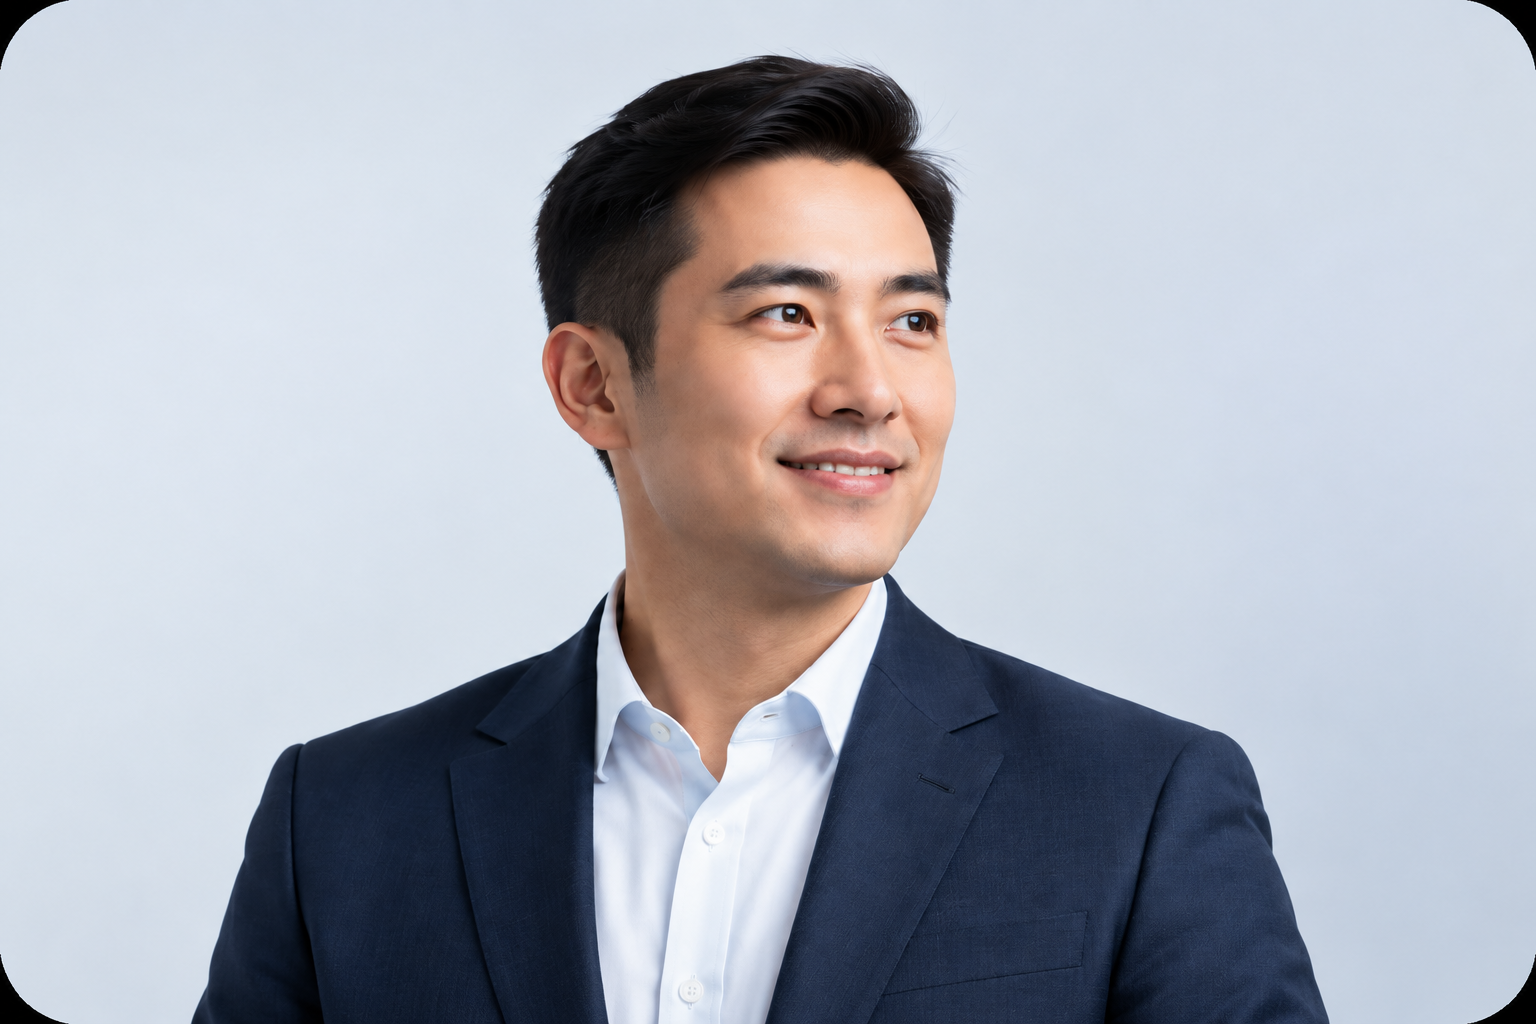
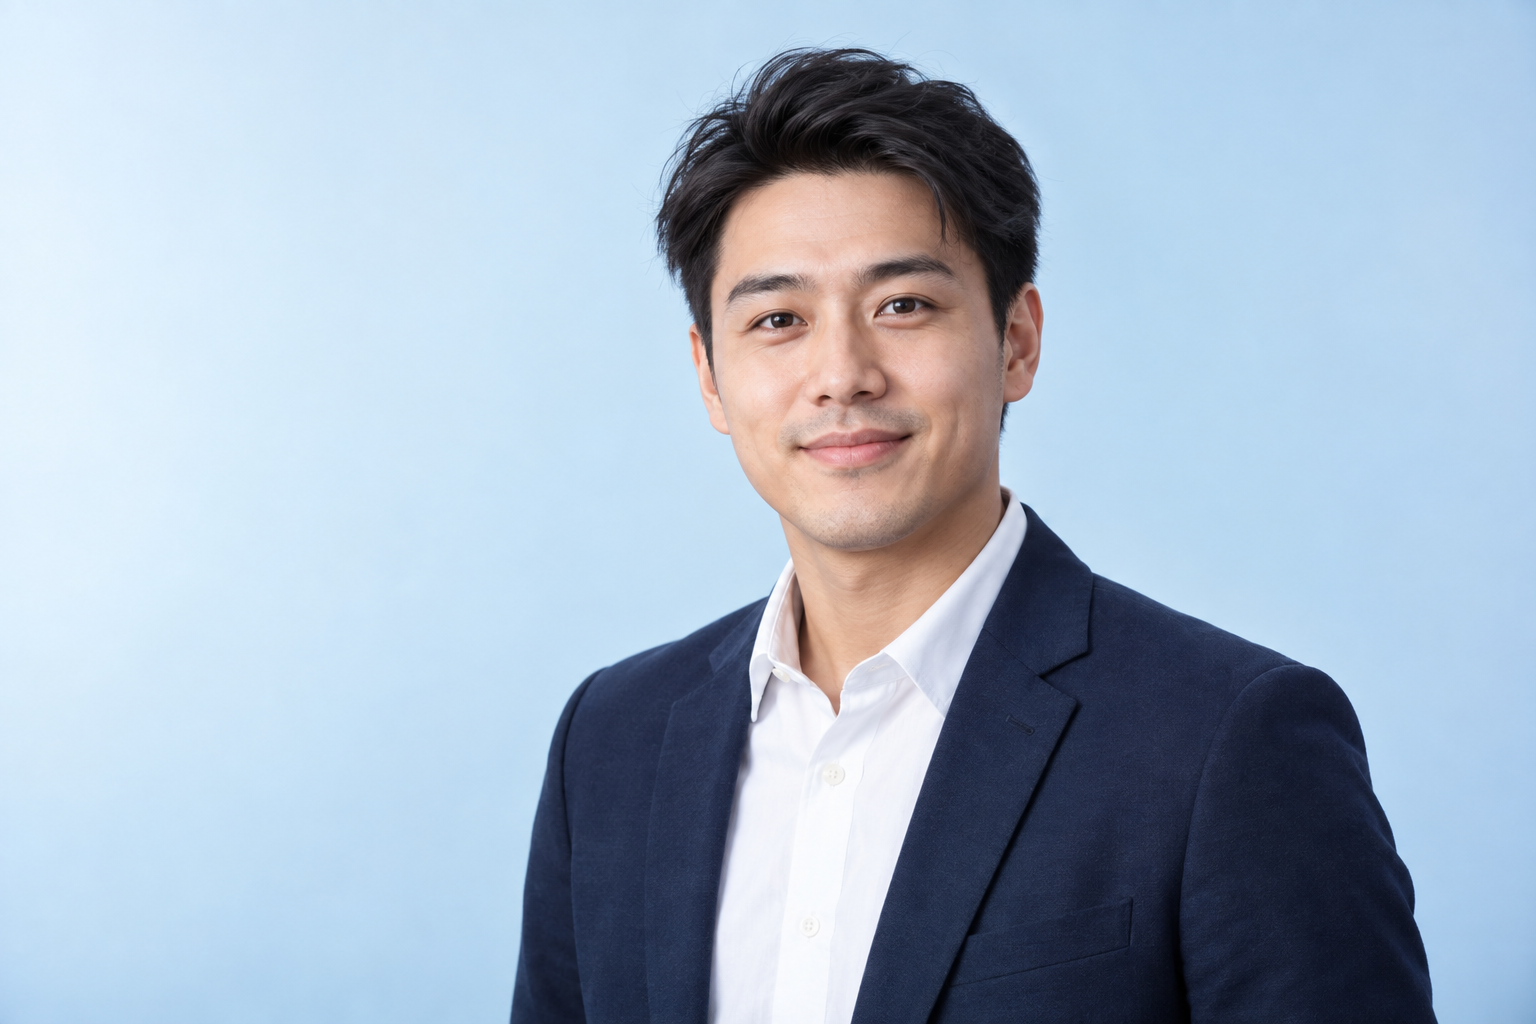
Add rotating customer case studies

diff --git a/index.html b/index.html
@@ -177,6 +177,11 @@ button{font:inherit}
 
 /* Testimonial */
 .testimonial{padding:16px 0 24px}
+.testimonial-carousel{position:relative}
+.testimonial-track{position:relative}
+.testimonial-slide{display:none}
+.testimonial-slide.is-active{display:block;animation:testimonial-in .45s ease both}
+@keyframes testimonial-in{from{opacity:0;transform:translateX(14px)}to{opacity:1;transform:translateX(0)}}
 .testimonial-card{height:112px;border:1px solid #e2ebf7;border-radius:10px;background:linear-gradient(180deg,#fff,#fbfdff);box-shadow:0 8px 22px rgba(35,87,151,.06);display:grid;grid-template-columns:160px 1fr 190px;overflow:hidden;align-items:stretch}
 .portrait-wrap{background:linear-gradient(145deg,#e7eef7,#f8fbfe);display:flex;align-items:end;justify-content:center;overflow:hidden}
 .portrait-wrap img{width:100%;height:100%;object-fit:cover;object-position:center 30%;border-radius:0}
@@ -188,7 +193,17 @@ button{font:inherit}
 .kpis{display:grid;grid-template-columns:1fr 1fr;align-items:center;text-align:center;position:relative}
 .kpis:before{content:"";position:absolute;left:50%;top:28px;bottom:28px;width:1px;background:#dce9f8}
 .kpi b{font-size:30px;color:#0a70fb;display:block;line-height:1}
+.kpi b small{font-size:.55em}
 .kpi span{font-size:12px;color:#506782;display:block;margin-top:6px}
+.testimonial-controls{display:flex;align-items:center;justify-content:space-between;margin:12px 2px 0}
+.testimonial-dots{display:flex;align-items:center;gap:8px}
+.testimonial-dot{width:8px;height:8px;padding:0;border:0;border-radius:50%;background:#c8d8ed;cursor:pointer;transition:width .25s ease,background .25s ease,transform .25s ease}
+.testimonial-dot:hover{background:#80b5f7;transform:scale(1.15)}
+.testimonial-dot[aria-selected="true"]{width:24px;border-radius:8px;background:#0b6ffb}
+.testimonial-arrows{display:flex;gap:8px}
+.testimonial-arrow{width:28px;height:28px;padding:0;border:1px solid #d6e5f7;border-radius:50%;background:#fff;color:#176fe8;cursor:pointer;display:grid;place-items:center;line-height:1;transition:border-color .2s ease,background .2s ease,color .2s ease}
+.testimonial-arrow:hover{border-color:#0b6ffb;background:#eef6ff}
+@media (prefers-reduced-motion:reduce){.testimonial-slide.is-active{animation:none}.testimonial-dot,.testimonial-arrow{transition:none}}
 
 /* CTA */
 .cta{padding:12px 0 26px}
@@ -349,12 +364,51 @@ button{font:inherit}
   </div>
 </section>
 
-<section class="section testimonial" id="about">
+<section class="section testimonial" id="about" aria-label="客户案例">
   <div class="container">
-    <div class="testimonial-card">
-      <div class="portrait-wrap"><img src="assets/testimonial-portrait.png" alt="客户代表"></div>
-      <div class="quote"><p>Rental OS 帮助我们将整体运营效率提升了 60% 以上，从多门店管理到订单履约都变得更加高效、透明。现在我们可以把更多精力放在业务拓展上，过去一年营收实现了 3 倍增长。</p><small><strong>陈先生</strong> 某知名摄影器材租赁品牌&nbsp; 创始人</small></div>
-      <div class="kpis"><div class="kpi"><b>60%+</b><span>运营效率提升</span></div><div class="kpi"><b>3 <small>倍</small></b><span>年营收增长</span></div></div>
+    <div class="testimonial-carousel" data-testimonial-carousel>
+      <div class="testimonial-track" aria-live="polite">
+        <article class="testimonial-slide is-active" data-testimonial-slide id="testimonial-slide-photography" aria-label="摄影器材租赁示例案例">
+          <div class="testimonial-card">
+            <div class="portrait-wrap"><img src="assets/testimonial-portrait.png" alt="摄影器材租赁示例客户陈先生"></div>
+            <div class="quote"><p>Rental OS 帮助我们将整体运营效率提升了 60% 以上，从多门店管理到订单履约都变得更加高效、透明。现在我们可以把更多精力放在业务拓展上。</p><small><strong>陈先生</strong>某知名摄影器材租赁品牌 · 示例客户</small></div>
+            <div class="kpis"><div class="kpi"><b>60%+</b><span>运营效率提升</span></div><div class="kpi"><b>3 <small>倍</small></b><span>年营收增长</span></div></div>
+          </div>
+        </article>
+        <article class="testimonial-slide" data-testimonial-slide id="testimonial-slide-camping" aria-label="露营装备租赁示例案例" hidden>
+          <div class="testimonial-card">
+            <div class="portrait-wrap"><img src="assets/testimonial-camping.png" alt="露营装备租赁示例客户林女士"></div>
+            <div class="quote"><p>从装备上架、预约排期到归还检查，团队终于可以在一个后台协同处理。旺季订单增加时，也不用反复核对表格。</p><small><strong>林女士</strong>某户外装备租赁品牌 · 示例客户</small></div>
+            <div class="kpis"><div class="kpi"><b>45%</b><span>订单处理效率</span></div><div class="kpi"><b>2.1 <small>倍</small></b><span>资产周转提升</span></div></div>
+          </div>
+        </article>
+        <article class="testimonial-slide" data-testimonial-slide id="testimonial-slide-vehicle" aria-label="车辆租赁示例案例" hidden>
+          <div class="testimonial-card">
+            <div class="portrait-wrap"><img src="assets/testimonial-vehicle.png" alt="车辆租赁示例客户周先生"></div>
+            <div class="quote"><p>多门店车辆排期、车辆状态和订单履约统一之后，调度人员能更快找到可用车辆，客户等待时间也明显缩短。</p><small><strong>周先生</strong>某城市汽车租赁企业 · 示例客户</small></div>
+            <div class="kpis"><div class="kpi"><b>50%+</b><span>车队协同效率</span></div><div class="kpi"><b>30%</b><span>空置率下降</span></div></div>
+          </div>
+        </article>
+        <article class="testimonial-slide" data-testimonial-slide id="testimonial-slide-engineering" aria-label="工程设备租赁示例案例" hidden>
+          <div class="testimonial-card">
+            <div class="portrait-wrap"><img src="assets/testimonial-engineering.png" alt="工程设备租赁示例客户王女士"></div>
+            <div class="quote"><p>设备状态、检验日期和交付安排都集中在同一套流程里，现场团队不用来回查表，设备交接也更有依据。</p><small><strong>王女士</strong>某工程设备租赁企业 · 示例客户</small></div>
+            <div class="kpis"><div class="kpi"><b>40%+</b><span>交付效率提升</span></div><div class="kpi"><b>25%</b><span>设备利用率提升</span></div></div>
+          </div>
+        </article>
+      </div>
+      <div class="testimonial-controls">
+        <div class="testimonial-dots" role="tablist" aria-label="选择客户案例">
+          <button class="testimonial-dot" type="button" role="tab" aria-label="摄影器材租赁示例案例" aria-selected="true" aria-controls="testimonial-slide-photography" data-testimonial-to="0"></button>
+          <button class="testimonial-dot" type="button" role="tab" aria-label="露营装备租赁示例案例" aria-selected="false" aria-controls="testimonial-slide-camping" data-testimonial-to="1" tabindex="-1"></button>
+          <button class="testimonial-dot" type="button" role="tab" aria-label="车辆租赁示例案例" aria-selected="false" aria-controls="testimonial-slide-vehicle" data-testimonial-to="2" tabindex="-1"></button>
+          <button class="testimonial-dot" type="button" role="tab" aria-label="工程设备租赁示例案例" aria-selected="false" aria-controls="testimonial-slide-engineering" data-testimonial-to="3" tabindex="-1"></button>
+        </div>
+        <div class="testimonial-arrows">
+          <button class="testimonial-arrow" type="button" aria-label="上一个客户案例" data-testimonial-prev>←</button>
+          <button class="testimonial-arrow" type="button" aria-label="下一个客户案例" data-testimonial-next>→</button>
+        </div>
+      </div>
     </div>
   </div>
 </section>
@@ -372,5 +426,75 @@ button{font:inherit}
     <div class="footer-slogan">让好资产创造更大价值！</div>
   </div>
 </footer>
+<script>
+(() => {
+  const root = document.querySelector('[data-testimonial-carousel]');
+  if (!root) return;
+  const slides = Array.from(root.querySelectorAll('[data-testimonial-slide]'));
+  const dots = Array.from(root.querySelectorAll('[data-testimonial-to]'));
+  const previous = root.querySelector('[data-testimonial-prev]');
+  const next = root.querySelector('[data-testimonial-next]');
+  const reducedMotion = window.matchMedia('(prefers-reduced-motion: reduce)');
+  const interval = 6500;
+  let activeIndex = 0;
+  let timer = null;
+
+  const render = (index) => {
+    activeIndex = (index + slides.length) % slides.length;
+    slides.forEach((slide, slideIndex) => {
+      const isActive = slideIndex === activeIndex;
+      slide.hidden = !isActive;
+      slide.classList.toggle('is-active', isActive);
+      slide.setAttribute('aria-hidden', String(!isActive));
+    });
+    dots.forEach((dot, dotIndex) => {
+      const isActive = dotIndex === activeIndex;
+      dot.setAttribute('aria-selected', String(isActive));
+      dot.tabIndex = isActive ? 0 : -1;
+    });
+  };
+
+  const stop = () => {
+    if (timer !== null) {
+      window.clearInterval(timer);
+      timer = null;
+    }
+  };
+
+  const start = () => {
+    stop();
+    if (reducedMotion.matches || document.hidden || root.matches(':hover') || root.contains(document.activeElement)) return;
+    timer = window.setInterval(() => render(activeIndex + 1), interval);
+  };
+
+  dots.forEach((dot, dotIndex) => {
+    dot.addEventListener('click', () => {
+      render(dotIndex);
+      start();
+    });
+  });
+  previous?.addEventListener('click', () => {
+    render(activeIndex - 1);
+    start();
+  });
+  next?.addEventListener('click', () => {
+    render(activeIndex + 1);
+    start();
+  });
+  root.addEventListener('mouseenter', stop);
+  root.addEventListener('mouseleave', start);
+  root.addEventListener('focusin', stop);
+  root.addEventListener('focusout', (event) => {
+    if (!root.contains(event.relatedTarget)) start();
+  });
+  document.addEventListener('visibilitychange', () => {
+    if (document.hidden) stop();
+    else start();
+  });
+
+  render(0);
+  start();
+})();
+</script>
 </body>
 </html>
